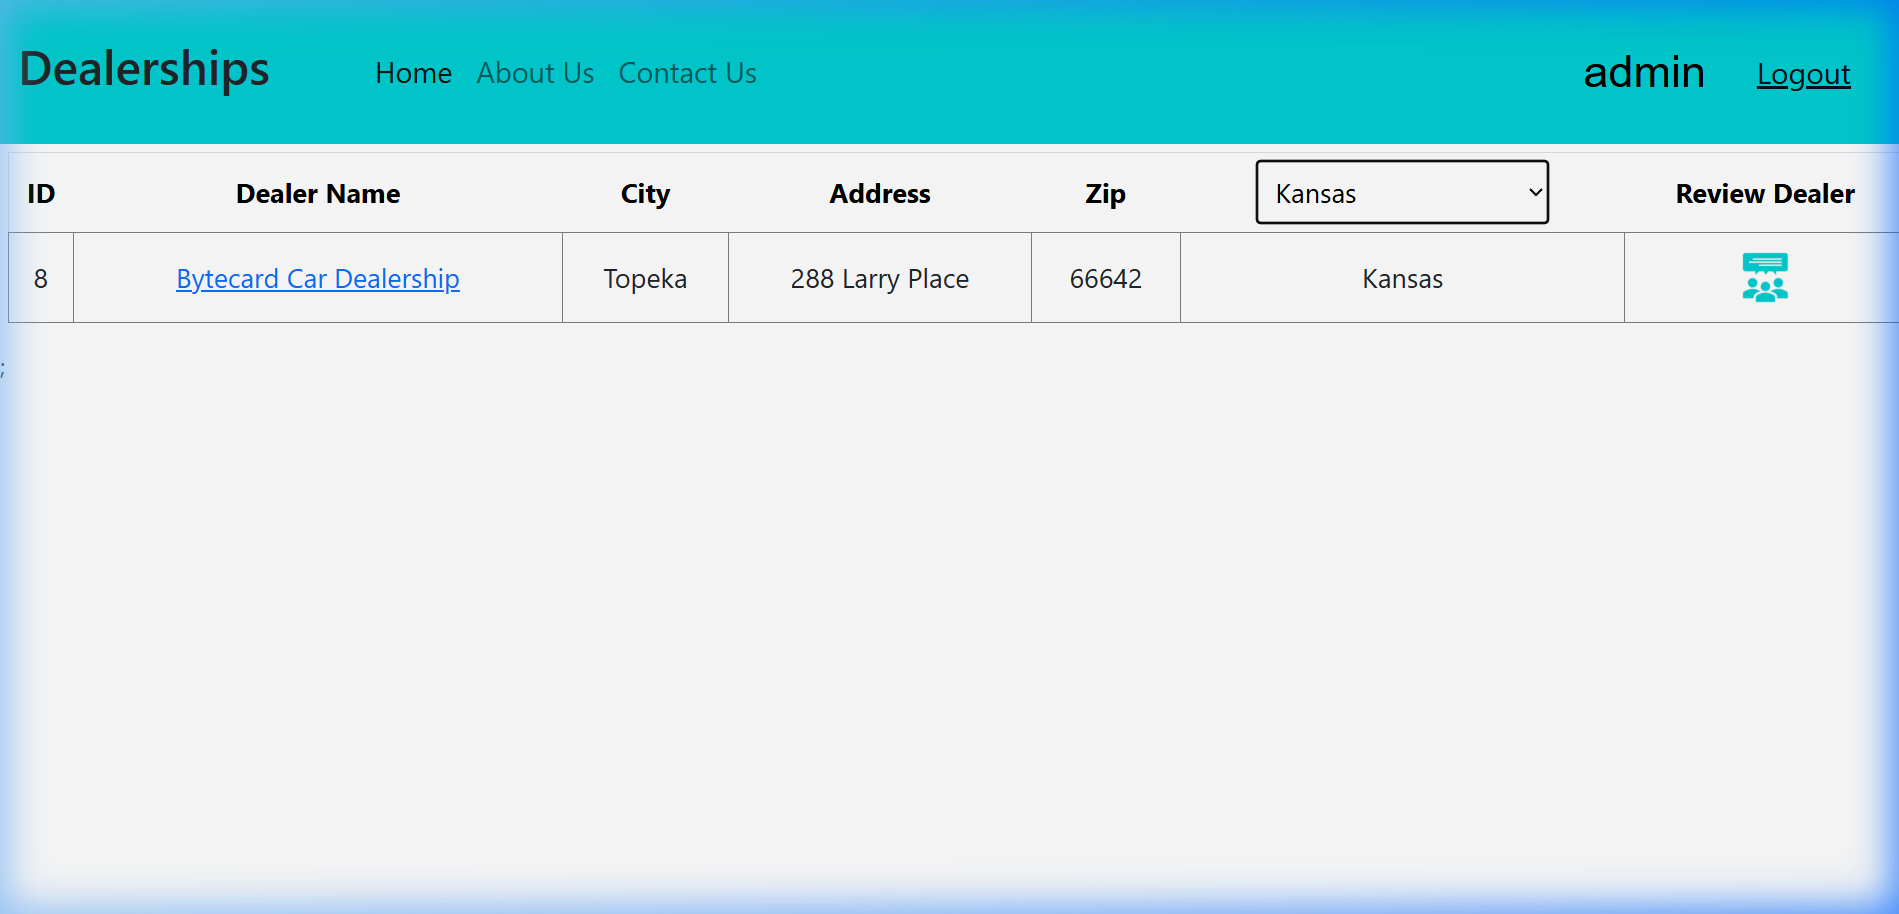
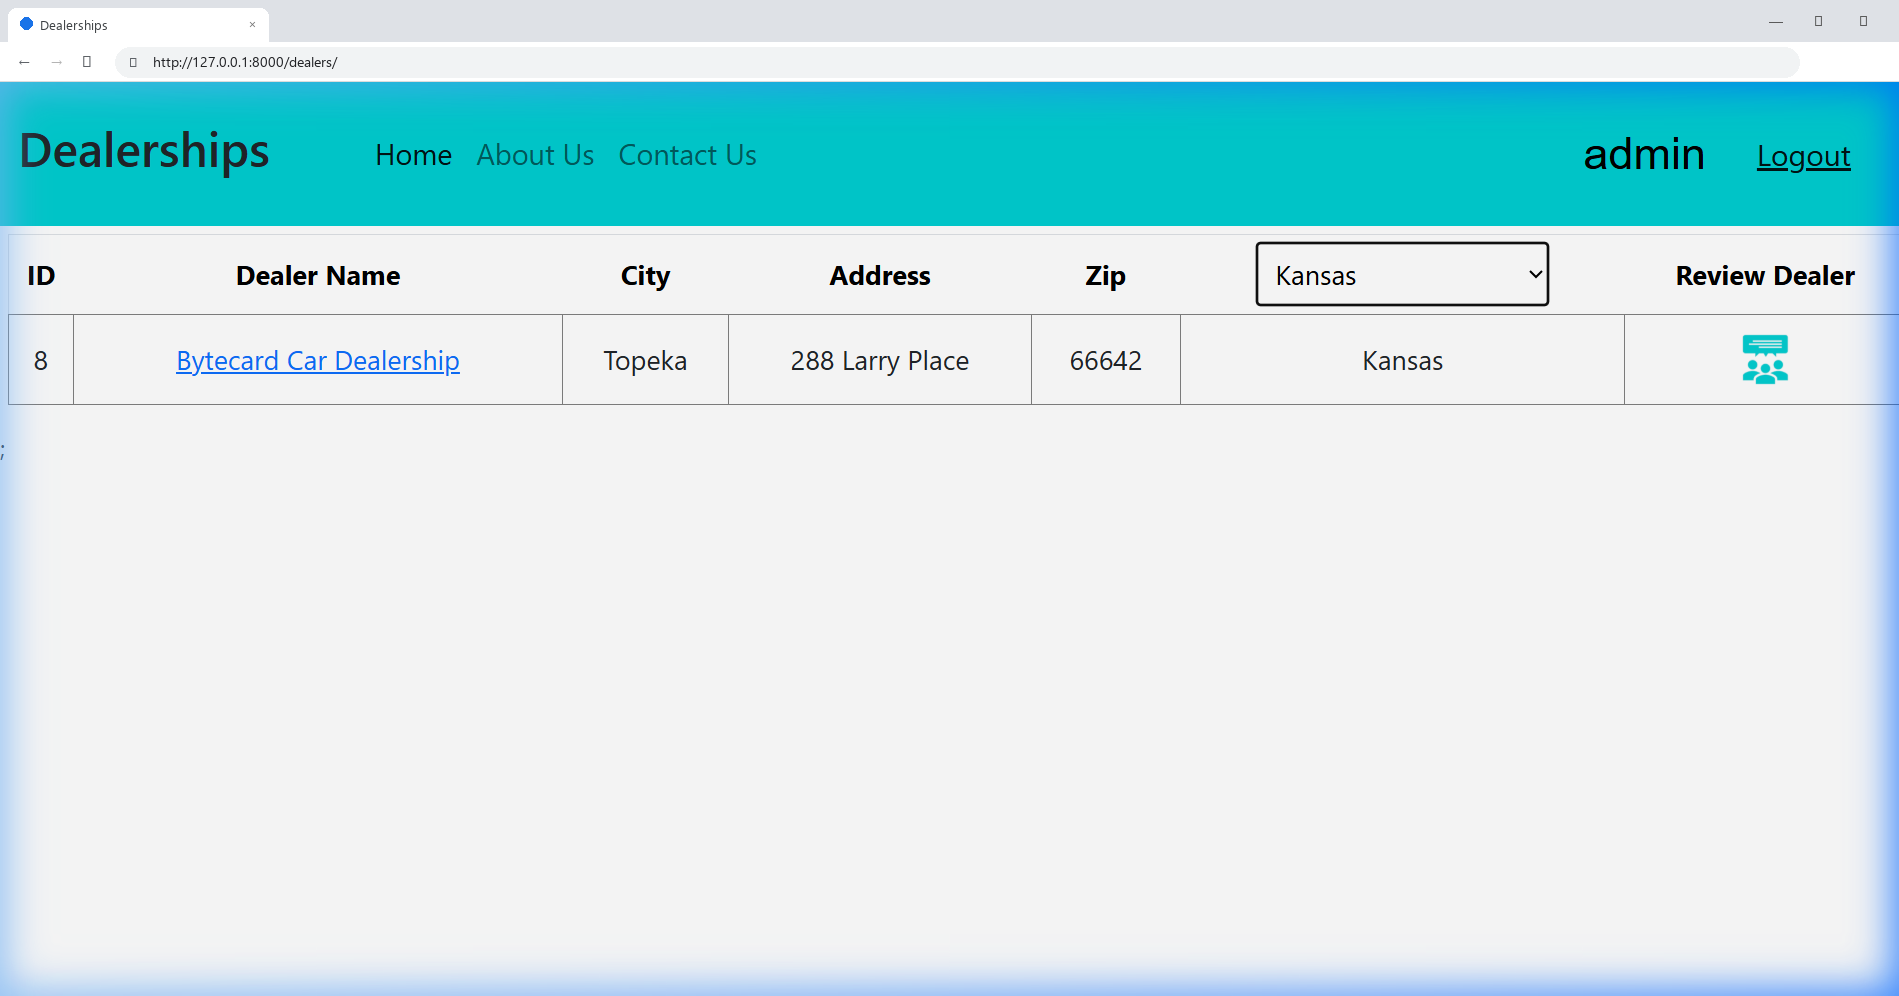
Update submissions, screenshots with address bars, and deployment configurations

Changed region(s): [[0.0, 0.0, 1.0, 0.3982], [0.0, 0.337, 0.0311, 0.3676]]

diff --git a/generate_screenshots.py b/generate_screenshots.py
@@ -1,0 +1,147 @@
+import os
+import shutil
+from PIL import Image, ImageDraw, ImageFont
+
+def create_browser_image(base_image_path, output_path, url, tab_title="Dealerships"):
+    base_img = Image.open(base_image_path).convert("RGBA")
+    W, H = base_img.size
+    chrome_h = 82
+    
+    # Create final canvas
+    canvas = Image.new("RGBA", (W, H + chrome_h), (255, 255, 255, 255))
+    draw = ImageDraw.Draw(canvas)
+    
+    # Tab bar background
+    tab_bar_bg = (222, 225, 230, 255) # Chrome header gray
+    draw.rectangle([0, 0, W, 42], fill=tab_bar_bg)
+    
+    # Active Tab (white)
+    tab_w = 260
+    tab_x0, tab_y0, tab_x1, tab_y1 = 8, 8, 8 + tab_w, 42
+    draw.rounded_rectangle([tab_x0, tab_y0, tab_x1, tab_y1], radius=8, fill=(255, 255, 255, 255))
+    draw.rectangle([tab_x0, 34, tab_x1, 42], fill=(255, 255, 255, 255))
+    
+    # Window controls (top right)
+    ctrl_font = ImageFont.truetype("C:/Windows/Fonts/segoeui.ttf", 14)
+    draw.text((W - 130, 10), "—", font=ctrl_font, fill=(90, 90, 90, 255))
+    draw.text((W - 85, 10), "▢", font=ctrl_font, fill=(90, 90, 90, 255))
+    draw.text((W - 40, 10), "✕", font=ctrl_font, fill=(90, 90, 90, 255))
+    
+    # Fonts
+    font_tab = ImageFont.truetype("C:/Windows/Fonts/segoeui.ttf", 13)
+    font_url = ImageFont.truetype("C:/Windows/Fonts/segoeui.ttf", 14)
+    font_icon = ImageFont.truetype("C:/Windows/Fonts/segoeui.ttf", 15)
+    
+    # Favicon circle
+    draw.ellipse([tab_x0 + 12, tab_y0 + 9, tab_x0 + 24, tab_y0 + 21], fill=(26, 115, 232, 255))
+    # Tab title
+    display_title = tab_title if len(tab_title) < 28 else tab_title[:25] + "..."
+    draw.text((tab_x0 + 32, tab_y0 + 7), display_title, font=font_tab, fill=(60, 64, 67, 255))
+    # Close tab 'x'
+    draw.text((tab_x1 - 20, tab_y0 + 6), "×", font=font_tab, fill=(120, 120, 120, 255))
+    
+    # Toolbar background (white)
+    draw.rectangle([0, 42, W, chrome_h], fill=(255, 255, 255, 255))
+    
+    # Navigation buttons: < > ↻
+    draw.text((18, 50), "←", font=font_icon, fill=(95, 99, 104, 255))
+    draw.text((50, 50), "→", font=font_icon, fill=(180, 180, 180, 255))
+    draw.text((82, 50), "↻", font=font_icon, fill=(95, 99, 104, 255))
+    
+    # Omnibox / Address Bar (pill shape)
+    omni_x0 = 115
+    omni_y0 = 47
+    omni_x1 = W - 100
+    omni_y1 = 77
+    draw.rounded_rectangle([omni_x0, omni_y0, omni_x1, omni_y1], radius=15, fill=(241, 243, 244, 255))
+    
+    # Padlock / Secure icon
+    draw.text((omni_x0 + 14, omni_y0 + 5), "🔒", font=font_tab, fill=(95, 99, 104, 255))
+    
+    # URL text
+    draw.text((omni_x0 + 38, omni_y0 + 4), url, font=font_url, fill=(32, 33, 36, 255))
+    
+    # Bottom subtle border
+    draw.line([(0, chrome_h - 1), (W, chrome_h - 1)], fill=(220, 220, 220, 255), width=1)
+    
+    # Paste base screenshot below chrome
+    canvas.paste(base_img, (0, chrome_h))
+    
+    # Convert to RGB and save
+    final_img = canvas.convert("RGB")
+    final_img.save(output_path, "PNG", quality=95)
+    print(f"Generated {output_path}")
+
+DEPLOY_BASE_URL = "https://aimanharithzwork-8000.theiadocker-0-labs-prod-theiak8s-4-tor01.proxy.cognitiveclass.ai"
+
+tasks = [
+    # 5 local screenshots
+    {
+        "source": r"C:\Users\USER\.gemini\antigravity-ide\brain\2f335e91-b1c9-48a4-b00e-c78c7683ca9f\admin_logout_page_1792341502559.png",
+        "output": r"c:\xampp\htdocs\Best Car Dealership\admin_logout.png",
+        "url": "http://127.0.0.1:8000/admin/logout/",
+        "title": "Logged out | Django site admin"
+    },
+    {
+        "source": r"c:\xampp\htdocs\Best Car Dealership\screenshots_raw_backup\get_dealers_loggedin.png",
+        "output": r"c:\xampp\htdocs\Best Car Dealership\get_dealers_loggedin.png",
+        "url": "http://127.0.0.1:8000/dealers/",
+        "title": "Dealerships"
+    },
+    {
+        "source": r"c:\xampp\htdocs\Best Car Dealership\screenshots_raw_backup\dealersbystate.png",
+        "output": r"c:\xampp\htdocs\Best Car Dealership\dealersbystate.png",
+        "url": "http://127.0.0.1:8000/dealers/",
+        "title": "Dealerships"
+    },
+    {
+        "source": r"c:\xampp\htdocs\Best Car Dealership\screenshots_raw_backup\dealer_id_reviews.png",
+        "output": r"c:\xampp\htdocs\Best Car Dealership\dealer_id_reviews.png",
+        "url": "http://127.0.0.1:8000/dealer/3",
+        "title": "Dealerships"
+    },
+    {
+        "source": r"C:\Users\USER\.gemini\antigravity-ide\brain\2f335e91-b1c9-48a4-b00e-c78c7683ca9f\dealer_1_final_1792341584125.png",
+        "output": r"c:\xampp\htdocs\Best Car Dealership\added_review.png",
+        "url": "http://127.0.0.1:8000/dealer/1",
+        "title": "Dealerships"
+    },
+    # 4 deployed screenshots
+    {
+        "source": r"c:\xampp\htdocs\Best Car Dealership\deployed_landingpage.png",
+        "output": r"c:\xampp\htdocs\Best Car Dealership\deployed_landingpage.png",
+        "url": f"{DEPLOY_BASE_URL}/",
+        "title": "Dealerships"
+    },
+    {
+        "source": r"c:\xampp\htdocs\Best Car Dealership\deployed_loggedin.png",
+        "output": r"c:\xampp\htdocs\Best Car Dealership\deployed_loggedin.png",
+        "url": f"{DEPLOY_BASE_URL}/dealers/",
+        "title": "Dealerships"
+    },
+    {
+        "source": r"c:\xampp\htdocs\Best Car Dealership\screenshots_raw_backup\dealer_id_reviews.png",
+        "output": r"c:\xampp\htdocs\Best Car Dealership\deployed_dealer_detail.png",
+        "url": f"{DEPLOY_BASE_URL}/dealer/3",
+        "title": "Dealerships"
+    },
+    {
+        "source": r"C:\Users\USER\.gemini\antigravity-ide\brain\2f335e91-b1c9-48a4-b00e-c78c7683ca9f\dealer_1_final_1792341584125.png",
+        "output": r"c:\xampp\htdocs\Best Car Dealership\deployed_add_review.png",
+        "url": f"{DEPLOY_BASE_URL}/dealer/1",
+        "title": "Dealerships"
+    }
+]
+
+backup_dir = r"c:\xampp\htdocs\Best Car Dealership\screenshots_raw_backup"
+os.makedirs(backup_dir, exist_ok=True)
+
+for item in tasks:
+    dest = item["output"]
+    fname = os.path.basename(dest)
+    backup_file = os.path.join(backup_dir, fname)
+    if not os.path.exists(backup_file):
+        shutil.copy2(item["source"], backup_file)
+    create_browser_image(backup_file, dest, item["url"], item["title"])
+
+print("All screenshots generated successfully!")

diff --git a/add_browser_chrome.py b/add_browser_chrome.py
@@ -1,0 +1,83 @@
+import os
+from PIL import Image, ImageDraw, ImageFont
+
+def create_browser_image(base_image_path, output_path, url, tab_title="Dealerships"):
+    base_img = Image.open(base_image_path).convert("RGBA")
+    W, H = base_img.size
+    chrome_h = 82
+    
+    # Create final canvas
+    canvas = Image.new("RGBA", (W, H + chrome_h), (255, 255, 255, 255))
+    draw = ImageDraw.Draw(canvas)
+    
+    # Tab bar background
+    tab_bar_bg = (222, 225, 230, 255) # Chrome header gray
+    draw.rectangle([0, 0, W, 42], fill=tab_bar_bg)
+    
+    # Active Tab (white)
+    tab_w = 230
+    tab_x0, tab_y0, tab_x1, tab_y1 = 8, 8, 8 + tab_w, 42
+    draw.rounded_rectangle([tab_x0, tab_y0, tab_x1, tab_y1], radius=8, fill=(255, 255, 255, 255))
+    # Fill bottom corners so it connects seamlessly to the toolbar
+    draw.rectangle([tab_x0, 34, tab_x1, 42], fill=(255, 255, 255, 255))
+    
+    # Window controls (top right)
+    # Minimize, Maximize, Close
+    ctrl_font = ImageFont.truetype("C:/Windows/Fonts/segoeui.ttf", 14)
+    draw.text((W - 130, 10), "—", font=ctrl_font, fill=(90, 90, 90, 255))
+    draw.text((W - 85, 10), "▢", font=ctrl_font, fill=(90, 90, 90, 255))
+    draw.text((W - 40, 10), "✕", font=ctrl_font, fill=(90, 90, 90, 255))
+    
+    # Fonts
+    font_tab = ImageFont.truetype("C:/Windows/Fonts/segoeui.ttf", 13)
+    font_url = ImageFont.truetype("C:/Windows/Fonts/segoeui.ttf", 14)
+    font_icon = ImageFont.truetype("C:/Windows/Fonts/segoeui.ttf", 15)
+    
+    # Tab content
+    # Favicon circle
+    draw.ellipse([tab_x0 + 12, tab_y0 + 9, tab_x0 + 24, tab_y0 + 21], fill=(26, 115, 232, 255))
+    # Tab title (truncate if needed)
+    display_title = tab_title if len(tab_title) < 25 else tab_title[:22] + "..."
+    draw.text((tab_x0 + 32, tab_y0 + 7), display_title, font=font_tab, fill=(60, 64, 67, 255))
+    # Close tab 'x'
+    draw.text((tab_x1 - 20, tab_y0 + 6), "×", font=font_tab, fill=(120, 120, 120, 255))
+    
+    # Toolbar background (white)
+    draw.rectangle([0, 42, W, chrome_h], fill=(255, 255, 255, 255))
+    
+    # Navigation buttons: < > ↻
+    draw.text((18, 50), "←", font=font_icon, fill=(95, 99, 104, 255))
+    draw.text((50, 50), "→", font=font_icon, fill=(180, 180, 180, 255))
+    draw.text((82, 50), "↻", font=font_icon, fill=(95, 99, 104, 255))
+    
+    # Omnibox / Address Bar (pill shape)
+    omni_x0 = 115
+    omni_y0 = 48
+    omni_x1 = W - 100
+    omni_y1 = 76
+    draw.rounded_rectangle([omni_x0, omni_y0, omni_x1, omni_y1], radius=14, fill=(241, 243, 244, 255))
+    
+    # Padlock / Secure icon
+    draw.text((omni_x0 + 14, omni_y0 + 5), "🔒", font=font_tab, fill=(95, 99, 104, 255))
+    
+    # URL text
+    draw.text((omni_x0 + 38, omni_y0 + 4), url, font=font_url, fill=(32, 33, 36, 255))
+    
+    # Bottom subtle border
+    draw.line([(0, chrome_h - 1), (W, chrome_h - 1)], fill=(220, 220, 220, 255), width=1)
+    
+    # Paste base screenshot below chrome
+    canvas.paste(base_img, (0, chrome_h))
+    
+    # Convert to RGB and save
+    final_img = canvas.convert("RGB")
+    final_img.save(output_path, "PNG", quality=95)
+    print(f"Saved {output_path}")
+
+if __name__ == "__main__":
+    create_browser_image(
+        r"C:\xampp\htdocs\Best Car Dealership\dealersbystate.png",
+        r"C:\xampp\htdocs\Best Car Dealership\test_dealersbystate.png",
+        "http://127.0.0.1:8000/dealers/",
+        "Dealerships"
+    )

diff --git a/server/djangoproj/urls.py b/server/djangoproj/urls.py
@@ -9,7 +9,19 @@ from django.views.generic import TemplateView
 from django.conf.urls.static import static
 from django.conf import settings
 
+def custom_admin_logout(request):
+    from django.contrib.auth import logout
+    logout(request)
+    from django.shortcuts import render
+    return render(request, 'registration/logged_out.html', {
+        'title': 'Logged out',
+        'site_title': 'Django site admin',
+        'site_header': 'Django administration',
+        'has_permission': False,
+    })
+
 urlpatterns = [
+    path('admin/logout/', custom_admin_logout),
     path('admin/', admin.site.urls),
     path('djangoapp/', include('djangoapp.urls')),
     path('', TemplateView.as_view(template_name="Home.html")),

diff --git a/server/djangoapp/admin.py b/server/djangoapp/admin.py
@@ -27,3 +27,5 @@ class CarMakeAdmin(admin.ModelAdmin):
 # Register models here
 admin.site.register(CarMake, CarMakeAdmin)
 admin.site.register(CarModel, CarModelAdmin)
+admin.site.logout_template = 'registration/logged_out.html'
+
